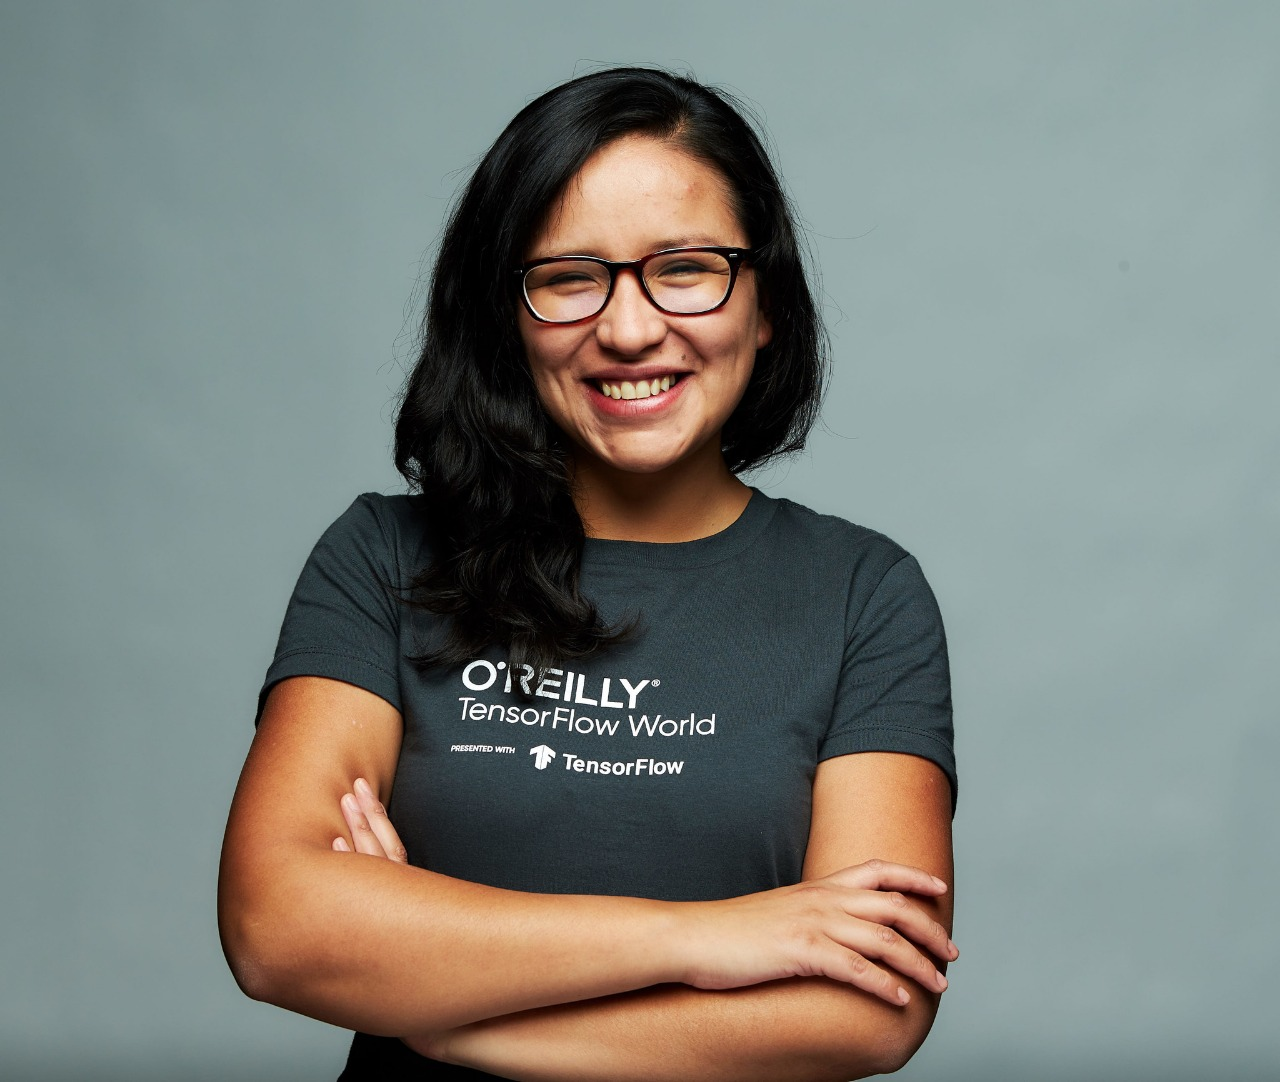
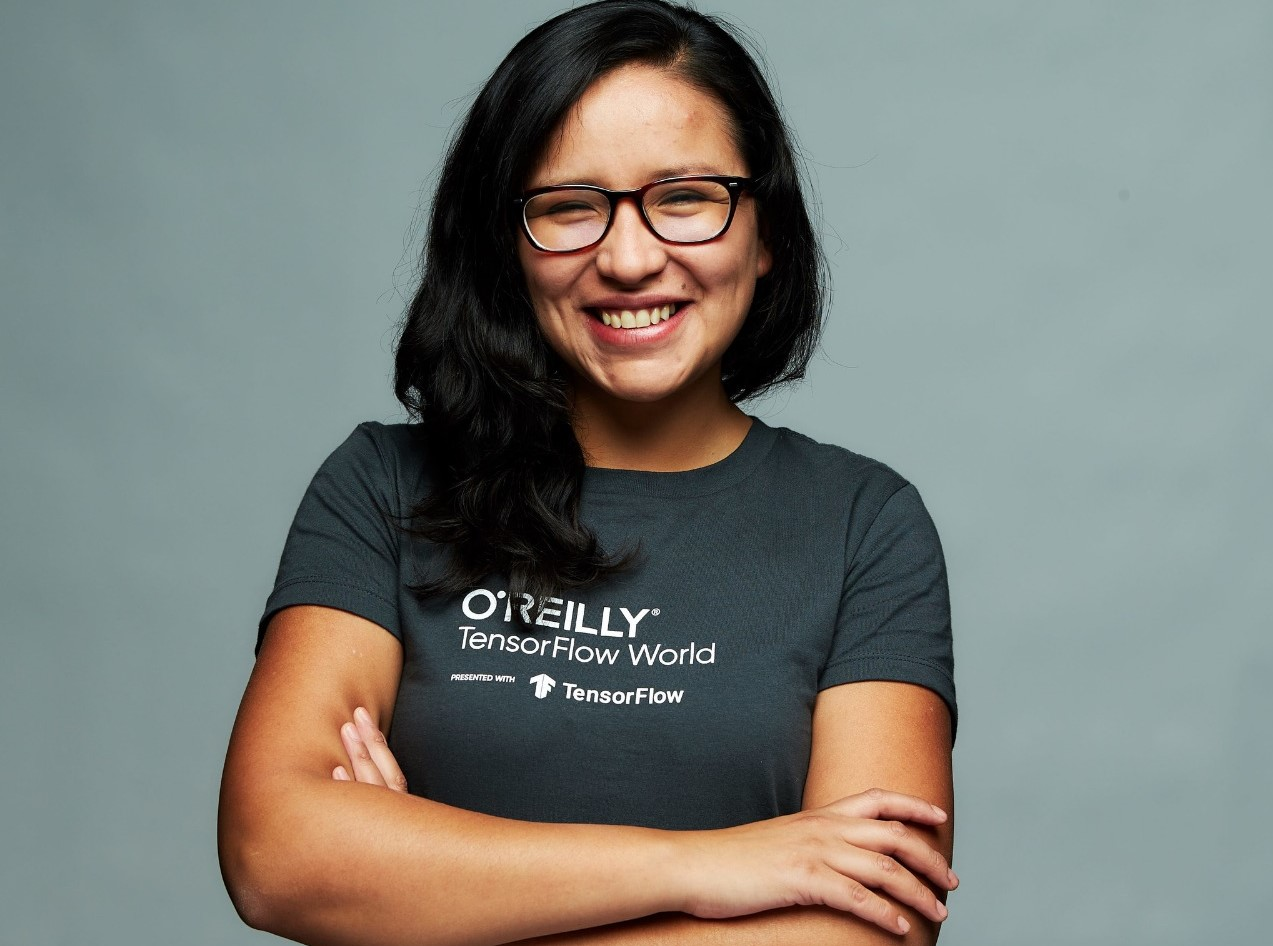
Speaker Lesly

diff --git a/speaker-details-10.html b/speaker-details-10.html
@@ -77,12 +77,12 @@
 
         <div class="row">
           <div class="col-md-6">
-            <img src="assets/img/speakers/Luisa_Dora_Rojas.jpg" alt="Speaker 7" class="img-fluid">
+            <img src="assets/img/speakers/Lesly_Zerna.jpeg" alt="Speaker 7" class="img-fluid">
           </div>
 
           <div class="col-md-6">
             <div class="details">
-              <h2>Luisa Vesga</h2>
+              <h2>Lesly Zerna</h2>
               <div class="social">
                 <a href=""><i class="bi bi-twitter"></i></a>
                 <a href=""><i class="bi bi-facebook"></i></a>
@@ -90,17 +90,20 @@
                 <a href="https://www.linkedin.com/in/luisa-vesga-8b4b73a1/"><i class="bi bi-linkedin"></i></a>
               </div>
               <div class="justificado">
-                <p>Luisa Vesga es arquitecta de soluciones para el equipo de Startups de Amazon Web Services, con más de 10 años de
-                experiencia en el campo de la tecnología.
-                En su rol, ayuda a las startups, de todas las etapas, a superar los desafíos empresariales aprovechando la plataforma de
-                AWS.
-                Antes de AWS, tuvo la oportunidad de ser parte de otros proveedores de tecnología, donde desempeñó roles operativos,
-                comerciales y técnicos, siempre enfocados a ofrecer valor a sus clientes.</p>
+                <p>Lesly es Google Developer Expert in Machine Learning technologies. Mentora en Google 
+                  Launchpad Latinamerica y Startup Weekends. Ed Tech educator. Co-founder of MentorHer, 
+                  la iniciativa para motivar a más chicas 
+                  a la tecnología. Profesional en Telecomunicaciones y Ciencias de la Computación.</p>
 
-                <p><b>Charla:</b> Impulsa tu negocio con AI/ML en AWS</p>
+                <p><b>Charla:</b> Porqué tener un portafolio en tu carrera en Ciencias de Datos</p>
 
-                <p><b>Descripción:</b> En la sesión se explicará como AWS puede ser su aliado de negocio para impulsar las compañías con tecnologías de AI/ML
-                en AWS</p>
+                <p><b>Descripción:</b>Ya que estas comenzando en el mundo de Ciencias de Datos, es 
+                  importante la práctica y también el desarrollar un perfil profesional enfocado a 
+                  un perfil de profesional en datos. Desarrollar un portafolio es tan importante,
+                  desde el día del desarrollo del proyecto 1, y no sólo para el trabajo sino 
+                  también para la comunidad, en esta charla compartimos 
+                  trick&tips para desarrollar un portafolio enfocado a profesional de datos
+               </p>
               </div>
             </div>
           </div>
